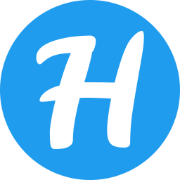
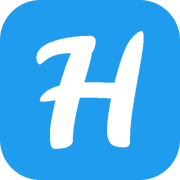
feat(search): support quoted phrases in advanced search syntax
Add quoted-string tokenization to search so collection names and keywords
with spaces can be wrapped in double quotes. Introduce splitSearchTokens
and extractAdvancedSearchKeyword helpers on the server side, and a
formatAdvancedSearchText utility on the client to auto-quote values that
contain spaces. Update apple-touch-icon and web manifest references.

diff --git a/app/client/src/pages/CollectionList.tsx b/app/client/src/pages/CollectionList.tsx
@@ -11,6 +11,7 @@ import InboxOutlinedIcon from "@mui/icons-material/InboxOutlined";
 import { Icon } from "@iconify/react";
 import { Box, SvgIconProps } from "@mui/material";
 import { useTranslation } from "react-i18next";
+import { formatAdvancedSearchText } from "../domain/searchSyntax";
 
 // Custom icon component for collections that can display emoji, iconify icons, or default folder
 const CollectionIconComponent = React.forwardRef<SVGSVGElement, SvgIconProps & { collectionIcon?: string | null }>(
@@ -124,7 +125,7 @@ const CollectionList = () => {
     // Add trailing space so users can directly type additional keywords
     const searchText = useMemo(() => {
         if (!isUnsorted && collection?.name) {
-            return `collection:${collection.name} `;
+            return formatAdvancedSearchText('collection:', collection.name);
         }
         return undefined;
     }, [isUnsorted, collection?.name]);

diff --git a/app/client/src/domain/searchSyntax.test.ts b/app/client/src/domain/searchSyntax.test.ts
@@ -1,0 +1,17 @@
+import { formatAdvancedSearchText, formatAdvancedSearchValue } from "./searchSyntax";
+
+test('formatAdvancedSearchValue keeps simple values unquoted', () => {
+    expect(formatAdvancedSearchValue('Inbox')).toBe('Inbox');
+});
+
+test('formatAdvancedSearchValue quotes values with spaces', () => {
+    expect(formatAdvancedSearchValue('Daily Reads')).toBe('"Daily Reads"');
+});
+
+test('formatAdvancedSearchValue escapes quotes inside quoted values', () => {
+    expect(formatAdvancedSearchValue('Daily "Reads"')).toBe('"Daily \\"Reads\\""');
+});
+
+test('formatAdvancedSearchText returns prefixed text with trailing space', () => {
+    expect(formatAdvancedSearchText('collection:', 'Daily Reads')).toBe('collection:"Daily Reads" ');
+});

diff --git a/app/client/public/index.html b/app/client/public/index.html
@@ -11,12 +11,12 @@
       name="description"
       content="Luck Info Hunter"
     />
-    <link rel="apple-touch-icon" href="%PUBLIC_URL%/logo192.png" />
+    <link rel="apple-touch-icon" sizes="180x180" href="%PUBLIC_URL%/apple-touch-icon.png" />
     <!--
       manifest.json provides metadata used when your web app is installed on a
       user's mobile device or desktop. See https://developers.google.com/web/fundamentals/web-app-manifest/
     -->
-    <link rel="manifest" href="%PUBLIC_URL%/manifest.json" />
+    <link rel="manifest" href="%PUBLIC_URL%/site.webmanifest" />
     <!--
       Notice the use of %PUBLIC_URL% in the tags above.
       It will be replaced with the URL of the `public` folder during the build.

diff --git a/app/client/src/domain/searchSyntax.ts b/app/client/src/domain/searchSyntax.ts
@@ -1,0 +1,18 @@
+export function formatAdvancedSearchValue(value: string) {
+    const trimmedValue = value.trim();
+
+    if (!trimmedValue) {
+        return '';
+    }
+
+    if (!/[\s"]/.test(trimmedValue)) {
+        return trimmedValue;
+    }
+
+    return `"${trimmedValue.replace(/\\/g, '\\\\').replace(/"/g, '\\"')}"`;
+}
+
+export function formatAdvancedSearchText(prefix: string, value: string) {
+    const formattedValue = formatAdvancedSearchValue(value);
+    return formattedValue ? `${prefix}${formattedValue} ` : undefined;
+}

diff --git a/app/server/huntly-server/src/main/java/com/huntly/server/service/LuceneService.java b/app/server/huntly-server/src/main/java/com/huntly/server/service/LuceneService.java
@@ -447,11 +447,11 @@ public class LuceneService implements DisposableBean {
         return searchResult;
     }
 
-    private CompleteSearch extractCompleteSearch(String keyword) {
+    CompleteSearch extractCompleteSearch(String keyword) {
         CompleteSearch completeSearch = new CompleteSearch();
         completeSearch.setAdvancedSearches(new ArrayList<>());
         completeSearch.setCollectionIds(new ArrayList<>());
-        String[] keywords = keyword.split(" ");
+        List<String> keywords = splitSearchTokens(keyword);
         List<String> simpleWords = new ArrayList<>();
         for (String key : keywords) {
             if (StringUtils.isBlank(key)) {
@@ -482,12 +482,68 @@ public class LuceneService implements DisposableBean {
     private AdvancedSearch extractAdvancedSearch(String key, String docField, String seperator) {
         AdvancedSearch advancedSearch = new AdvancedSearch();
         advancedSearch.setDocField(docField);
-        String[] parts = key.split(seperator);
-        if (parts.length == 2) {
-            advancedSearch.setKeyword(parts[1]);
-        }
+        advancedSearch.setKeyword(extractAdvancedSearchKeyword(key, seperator));
         advancedSearch.words = segmentWords(advancedSearch.getKeyword(), true);
         return advancedSearch;
+    }
+
+    static String extractAdvancedSearchKeyword(String key, String separator) {
+        int separatorIndex = key.indexOf(separator);
+        if (separatorIndex < 0) {
+            return "";
+        }
+        return key.substring(separatorIndex + separator.length()).trim();
+    }
+
+    static List<String> splitSearchTokens(String keyword) {
+        List<String> tokens = new ArrayList<>();
+        if (StringUtils.isBlank(keyword)) {
+            return tokens;
+        }
+
+        StringBuilder token = new StringBuilder();
+        boolean inQuotes = false;
+        boolean escaping = false;
+
+        for (int i = 0; i < keyword.length(); i++) {
+            char current = keyword.charAt(i);
+
+            if (escaping) {
+                token.append(current);
+                escaping = false;
+                continue;
+            }
+
+            if (inQuotes && current == '\\') {
+                escaping = true;
+                continue;
+            }
+
+            if (current == '"') {
+                inQuotes = !inQuotes;
+                continue;
+            }
+
+            if (!inQuotes && Character.isWhitespace(current)) {
+                if (token.length() > 0) {
+                    tokens.add(token.toString());
+                    token.setLength(0);
+                }
+                continue;
+            }
+
+            token.append(current);
+        }
+
+        if (escaping) {
+            token.append('\\');
+        }
+
+        if (token.length() > 0) {
+            tokens.add(token.toString());
+        }
+
+        return tokens;
     }
 
     private SearchOption parseSearchOption(String options) {
@@ -542,6 +598,9 @@ public class LuceneService implements DisposableBean {
 
     private List<String> segmentWords(String keyword, boolean useSmart) {
         List<String> words = new ArrayList<>();
+        if (StringUtils.isBlank(keyword)) {
+            return words;
+        }
         StringReader sr = new StringReader(keyword);
         IKSegmenter segmenter = new IKSegmenter(sr, useSmart);
         Lexeme lexeme = null;

diff --git a/app/server/huntly-server/src/test/java/com/huntly/server/service/LuceneServiceSearchSyntaxTest.java b/app/server/huntly-server/src/test/java/com/huntly/server/service/LuceneServiceSearchSyntaxTest.java
@@ -1,0 +1,58 @@
+package com.huntly.server.service;
+
+import com.huntly.server.config.HuntlyProperties;
+import com.huntly.server.domain.entity.Collection;
+import com.huntly.server.repository.CollectionRepository;
+import com.huntly.server.repository.PageRepository;
+import org.junit.jupiter.api.Test;
+
+import java.util.List;
+
+import static org.assertj.core.api.Assertions.assertThat;
+import static org.mockito.Mockito.mock;
+import static org.mockito.Mockito.when;
+
+class LuceneServiceSearchSyntaxTest {
+
+    @Test
+    void splitSearchTokens_keepsQuotedAdvancedSearchValueTogether() {
+        List<String> tokens = LuceneService.splitSearchTokens("machine collection:\"Daily Reads\" author:\"Jane Doe\"");
+
+        assertThat(tokens).containsExactly("machine", "collection:Daily Reads", "author:Jane Doe");
+    }
+
+    @Test
+    void splitSearchTokens_unescapesQuotedCharactersInsideQuotedValue() {
+        List<String> tokens = LuceneService.splitSearchTokens("collection:\"Daily \\\"Reads\\\"\"");
+
+        assertThat(tokens).containsExactly("collection:Daily \"Reads\"");
+    }
+
+    @Test
+    void extractAdvancedSearchKeyword_usesFirstSeparatorOnly() {
+        String keyword = LuceneService.extractAdvancedSearchKeyword("url:https://example.com/a:b", ":");
+
+        assertThat(keyword).isEqualTo("https://example.com/a:b");
+    }
+
+    @Test
+    void extractCompleteSearch_usesQuotedCollectionNameForCollectionFilter() {
+        CollectionRepository collectionRepository = mock(CollectionRepository.class);
+        Collection collection = new Collection();
+        collection.setId(42L);
+        collection.setName("Daily Reads");
+        when(collectionRepository.findByNameContainingIgnoreCase("Daily Reads")).thenReturn(List.of(collection));
+
+        LuceneService luceneService = new LuceneService(
+                mock(PageRepository.class),
+                mock(PageListService.class),
+                new HuntlyProperties(),
+                collectionRepository
+        );
+
+        LuceneService.CompleteSearch completeSearch = luceneService.extractCompleteSearch("machine collection:\"Daily Reads\"");
+
+        assertThat(completeSearch.getKeyword()).isEqualTo("machine");
+        assertThat(completeSearch.getCollectionIds()).containsExactly(42L);
+    }
+}
